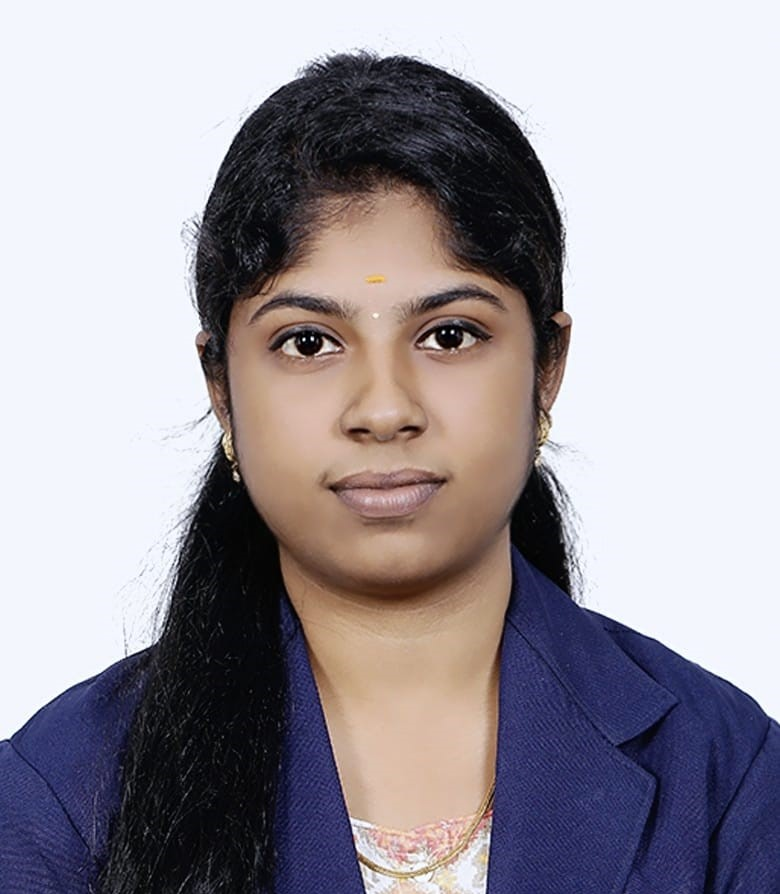
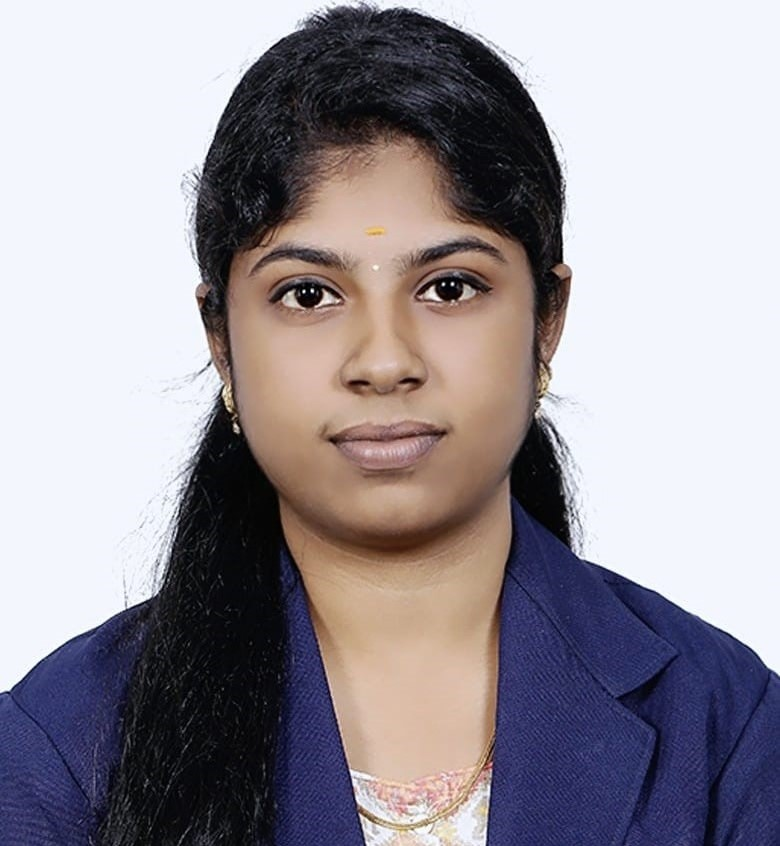
commit latest

diff --git a/register.html b/register.html
@@ -1,11 +1,15 @@
+
+
+
 <!DOCTYPE html>
 <html lang="en">
 
 <head>
 
+	
 	<meta charset="utf-8">
 	<meta name="viewport" content="width=device-width, initial-scale=1.0">
-
+	
 	<title>NCACT'23</title>
 	
 	<link rel="preconnect" href="https://fonts.gstatic.com/">
@@ -24,7 +28,7 @@
 <body>
 
 	<div id="pageWrapper">
-
+	
 		<div class="phStickyWrap">
 		
 			<header id="pageHeader" class="bg-white">
@@ -58,7 +62,7 @@
 							
 							<div class="hdRighterWrap d-flex align-items-center justify-content-end">
 								<div class="dropdown hdLangDropdown ddohOpener d-none d-lg-block">
-									<a class="d-inline-block align-top dropdown-toggle " href="javascript:void(0);" role="button" id="hdLanguagedropdown" data-toggle="dropdown" aria-haspopup="true" aria-expanded="false">25th March 2023</a>
+									<a class="d-inline-block align-top dropdown-toggle " href="javascript:void(0);" role="button" id="hdLanguagedropdown" data-toggle="dropdown" aria-haspopup="true" aria-expanded="false"> 25th March 2023</a>
 									
 								</div>
 								</a>
@@ -72,48 +76,12 @@
 		<main>
 		
 			
-			<article class="aboutMayorBlock pt-md-7 pt-xl-11 pb-7 pb-md-13 pb-lg-20 pb-xl-28">
-				<div class="container">
-					<div class="row">
-						<div class="">
-							<h2 class="lh44 mb-6">Publications</h2>
-								<ul><li><p>Technical panel comprises of leading academicians and experts</p></li></ul>
-								<ul><li><p>All the accepted papers will be published in the conference proceedings with ISBN number.</p></li></ul>
-								
-								<ul><li><p>Selected Papers will be published in Google Scholars Listed Journals	</p></li></ul>
-								<ul><li><p>Best Paper will be Awarded</p></li></ul>
-								<ul><li><p>Kindly Upload the documents in proper format to the mail id: <a href="mailto:ncact23@gmail.com">ncact23@gmail.com</a></p></li></ul>
-			
-			<article class="aboutMayorBlock pt-md-7 pt-xl-11 pb-7 pb-md-13 pb-lg-20 pb-xl-28">
-				<div class="container">
-					<div class="row">
-						<div class="col-12 col-md-6 pt-4">
-							<h2 class="lh44 mb-6">CALL FOR PAPERS</h2>
-							<p>1. Artificial Intelligence</p>
-							<p>2. Internet of Things</p>
-							<p>3. Big Data Analytics</p>
-							<p>4. Image Processing</p>
-							<p>5.Data Mining and Knowledge Engine</p>
-							<p>6. Mobile and Pervasive Computing</p>
-							<p>7.Distributed and Wireless Networks</p>
-							<p>8. Nano Computing</p>
-							<p>9. Software Architecture and Testing 10.Grid Computing</p>
-							<p>11. Cryptography & Network Security</p>
-							<p>12. Speech Recognition</p>
-							<p>13. Computer Vision</p>
-							<p>14. Pattern Recognition</p>
-							<p>15. Embedded Technologies</p>
-							<p>16. Wireless Ad-hoc Networks</p>
-
-							
-						</div>
-						
-						</div>
-					</div>
-				</div>
-			</article>
-		</article>	
-			
+            <h2 class="lh44 mb-6">For Registrations</h2>
+            <ul><li><p>Kindly Upload the documents in given format to the mail id: <a href="mailto:ncact23@gmail.com">ncact23@gmail.com</a></p></li></ul>
+            <ul><li><p>Check the format here : <a href="https://docs.google.com/document/d/1Mjkwr1uBA7LfQtMFgO4EsuI2qkZLlEM9/edit?usp=drivesdk&ouid=115177795012687587520&rtpof=true&sd=true">View</a></p></li></ul>
+            <ul><li><a href="https://forms.gle/L8cq597cYQE8yuwn7" class="btn btnTheme font-weight-bold btnMinSm text-capitalize position-relative border-0 p-0 mt-6" data-hover="Registration Link">
+                <span class="d-block btnText">Registration Link</span></li></ul>
+            
 		
 		
 			
@@ -155,7 +123,7 @@
 								</ul>
 							</address>
 						</div>
-						<iframe src="https://www.google.com/maps/embed?pb=!1m18!1m12!1m3!1d3885.1843358701976!2d80.18936775030431!3d13.150769690693132!2m3!1f0!2f0!3f0!3m2!1i1024!2i768!4f13.1!3m3!1m2!1s0x3a5264a10c856599%3A0xac3348f41097ba7f!2sVelammal%20Engineering%20College!5e0!3m2!1sen!2sin!4v1677747184627!5m2!1sen!2sin" width="600" height="450" style="border:0;" allowfullscreen="" loading="lazy" referrerpolicy="no-referrer-when-downgrade"></iframe>
+						
 						
 						
 						

diff --git a/index.html b/index.html
@@ -78,6 +78,7 @@
 												<ul class="list-unstyled mb-0 hdDropdownList">
 													<li><a class="dropdown-item" href="About Conference.html">About Conference</a></li>
 													<li><a class="dropdown-item" href="Publications.html">Publications</a></li>
+													<li><a class="dropdown-item" href="register.html">Registeration</a></li>
 												</ul>
 											</div>
 										</li>
@@ -240,9 +241,7 @@
 								<span class="img img1 position-relative d-block">
 									<img src="images/vec background.jpg" class="img-fluid" alt="image description">
 								</span>
-								<span class="img img2 d-block position-absolute">
-									<img src="images/vec background.png" class="img-fluid" alt="image description">
-								</span>
+								
 								
 							</div>
 						</div>
@@ -385,7 +384,7 @@
 						<div class="col-12 col-sm-6 col-lg-4 col-xl-3">
 							<article class="mccColumn bg-white shadow mb-6 mx-auto mx-sm-0">
 								<div class="imgHolder position-relative">
-									<img src="images/sir muthuramalingam.jpg" class="img-fluid d-block w-100" alt="image description">
+									<img src="images/muthuramalingam.jpeg" class="img-fluid d-block w-100" alt="image description">
 									
 								</div>
 								<div class="mcCaptionWrap px-5 pt-5 pb-4 position-relative">
@@ -418,7 +417,7 @@
 									<img src="images/sathish.jpeg" class="img-fluid d-block w-100" alt="image description">
 								
 								<div class="mcCaptionWrap px-5 pt-5 pb-4 position-relative">
-									<h3 class="fwMedium h3Small mb-1">Dr. S. Sathish Kumar</h3>
+									<h3 class="fwMedium h3Small mb-1">Dr. S. Satish Kumar</h3>
 									<h4 class="fwSemiBold fontBase text-secondary">Principal, VEC</h4>
 									<hr class="mccSeprator mx-0 mt-4 mb-3">
 									<ul class="list-unstyled mccInfoList">

diff --git a/contact-1.html b/contact-1.html
@@ -230,7 +230,7 @@
 									<div class="col-12 col-md-6 col-xl-4">
 										<article class="npbColumn shadow bg-white mb-6">
 											<div class="imgHolder position-relative">
-													<img src="images/sivani.jpg" class="img-fluid w-100 d-block" alt="image description">
+													<img src="images/sivani.jpeg" class="img-fluid w-100 d-block" alt="image description">
 												</a>
 											 
 											</div>
@@ -334,7 +334,7 @@
 											<article class="npbColumn shadow bg-white mb-6">
 												<div class="imgHolder position-relative">
 													<a href="javascript:void(0);">
-														<img src="images/Lakshya.jpeg" class="img-fluid w-100 d-block" alt="image description">
+														<img src="images/lakshaya.jpeg" class="img-fluid w-100 d-block" alt="image description">
 													</a>
 													
 												</div>
@@ -349,7 +349,7 @@
 													</strong>
 													<strong class="d-block npbcmWrap font-weight-normal mb-1">
 														<hr>
-														<p class="mr-5">Contact Ph: +91-934426575</p>	
+														<p class="mr-5">Contact Ph: +91-9344426575</p>	
 													</strong>
 
 													
@@ -359,6 +359,12 @@
 										</div>
 										<div class="col-12 col-md-6 col-xl-4">
 											<article class="npbColumn shadow bg-white mb-6">
+												<div class="imgHolder position-relative">
+													<a href="javascript:void(0);">
+														<img src="images/vathender.jpeg" class="img-fluid w-100 d-block" alt="image description">
+													</a>
+													
+												</div>
 												
 											
 												<div class="npbDescriptionWrap px-5 pt-8 pb-5">
